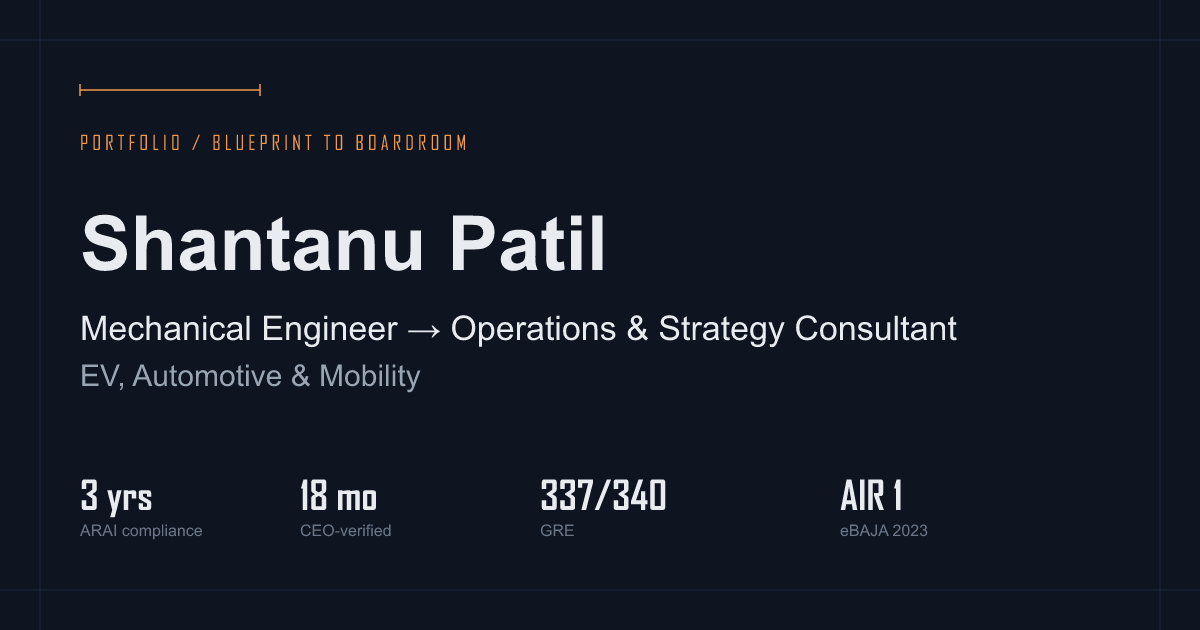
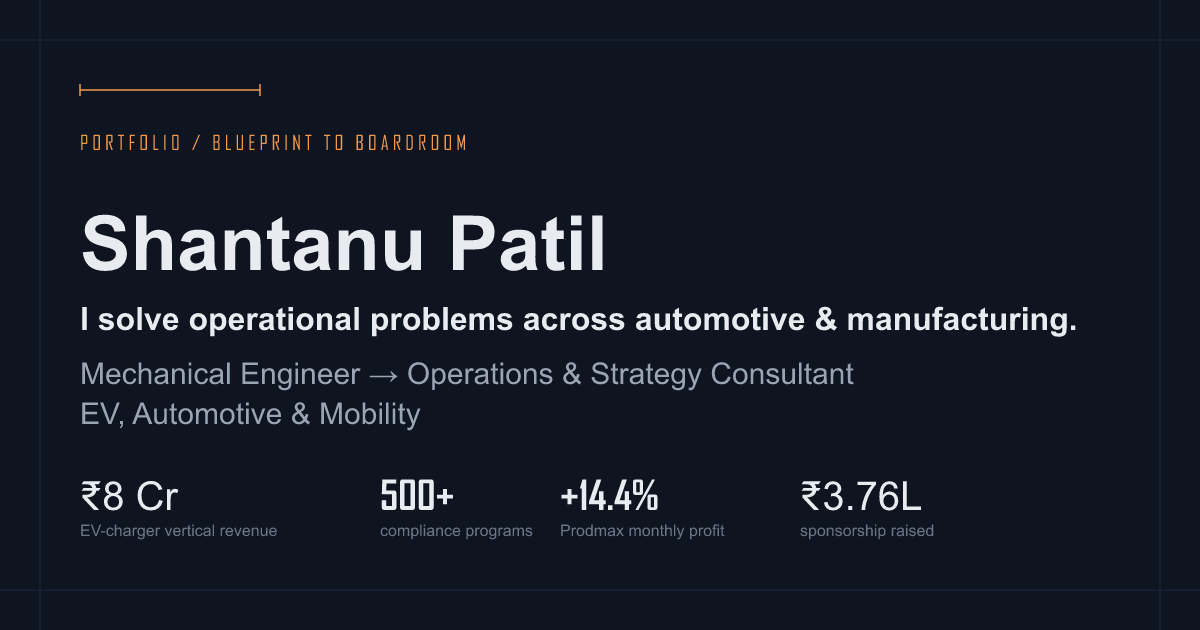
Sharpen hero, proof strip and skills; soften ARAI wording; add BAJA exhibit
- Hero leads with a plain statement ('I solve operational problems across automotive & manufacturing'), keywords underneath
- Proof strip is now business-impact only: Rs 8 Cr (labelled as the vertical's revenue, co-run as 1 of 2 engineers), 500+ programs, +14.4% profit, Rs 3.76L sponsorship
- ARAI: 'directed' -> 'ran the vertical as one of two engineers, coordinating seven contract staff' (no formal team-lead title)
- Skills collapsed from a three-column wall to two lines (Methods, Tools)
- BAJA back as one compact case-study exhibit (03); exhibits renumbered to seven
- OG image regenerated to match; README checklist refreshed

diff --git a/src/content.ts b/src/content.ts
@@ -17,7 +17,7 @@
 
    Open items from reconciling this file against the resume (2026-09-15) -
    flagged rather than guessed at:
-   - "18 months" (hero stat, quickStats, About "Operator" beat) vs the
+   - "18 months" (hero sub-line, About "Operator" beat) vs the
      Prodmax Experience dates (Oct 2023 - Aug 2025 per resume, ~22 months).
      Left both as-is pending confirmation of which is the intended figure.
    - Treasure Box Club: resume says "Founder & Sole Operator"; this file's
@@ -32,6 +32,8 @@
 export const site = {
   name: 'Shantanu Patil',
   role: 'Mechanical Engineer → Operations & Strategy Consultant',
+  // Leads the hero: one plain statement first, keywords underneath.
+  statement: 'I solve operational problems across automotive & manufacturing.',
   positioningLine:
     'Mechanical Engineer → Operations & Strategy Consultant | EV, Automotive & Mobility',
   // The one line that actually differentiates him. Surfaced in the hero and
@@ -73,6 +75,7 @@ export const nav: NavItem[] = [
 export const hero = {
   kicker: 'Portfolio · Blueprint to Boardroom',
   heading: 'Shantanu Patil',
+  statement: site.statement,
   positioning: site.positioningLine,
   thesisQuote: site.thesisQuote,
   sub: site.subPositioning,
@@ -82,11 +85,14 @@ export const hero = {
     { label: 'Email Me', href: `mailto:${site.email}`, kind: 'ghost' as const },
     { label: 'LinkedIn', href: site.linkedin, kind: 'ghost' as const, external: true },
   ],
+  // Proof strip: business-impact numbers only, all straight from the resume.
+  // The ₹8 Cr is the annual revenue of the EV-charger vertical he co-ran as one
+  // of two engineers - NOT revenue he personally generated; the label says so.
   quickStats: [
-    { value: '3 yrs', label: 'EV charger compliance at ARAI' },
-    { value: '18 mo', label: 'operations consulting, CEO-verified' },
-    { value: '337/340', label: 'GRE' },
-    { value: 'AIR 1', label: 'BAJA SAE India eBAJA 2023' },
+    { value: '₹8 Cr', label: 'annual revenue of the EV-charger vertical, co-run as 1 of 2 engineers' },
+    { value: '500+', label: 'compliance programs, zero client escalations' },
+    { value: '+14.4%', label: 'monthly profit at Prodmax (₹4.5L → ₹5.15L)' },
+    { value: '₹3.76L', label: 'sponsorship raised, 42% of team budget' },
   ],
 }
 
@@ -131,7 +137,7 @@ export const about = {
       tag: 'Proving ground',
       title: 'Team Leader, BAJA SAE - Team Predators Racing',
       body:
-        'Team Leader and Marketing & Manufacturing Lead for a 25-member cross-functional team across BAJA SAE India and BAJA SAE International (New York). Raised ₹3.76L (42% of budget) across 35+ sponsor pitches, then represented Team India at BAJA SAE USA, presenting the commercial case live before international judges. First team in the club’s history to win both the mBAJA and eBAJA national titles in consecutive years.',
+        'Team Leader and Marketing & Manufacturing Lead for a 25-member cross-functional team across BAJA SAE India and BAJA SAE International (New York). Raised ₹3.76L (42% of budget) across 35+ sponsor pitches, then represented Team India at BAJA SAE USA, presenting the commercial case live before international judges. First team to win both the mBAJA and eBAJA national titles in consecutive years.',
       stats: [
         { value: 'AIR 1', label: 'eBAJA 2023 · 1 of 81 teams' },
         { value: '4 / 88', label: 'World Rank, Intl Sales Presentation' },
@@ -195,7 +201,9 @@ export const experience: ExperienceEntry[] = [
       },
       {
         text:
-          'Directed a two-engineer core team overseeing seven contract staff within an EV-charger testing vertical generating ~₹8 crore in FY25 revenue - ~7% of the ~₹110 crore Automotive Electronics division.',
+          'Ran the EV-charger testing vertical as one of two engineers, coordinating seven contract staff; the vertical generated ~₹8 crore in FY25 revenue - ~7% of the ~₹110 crore Automotive Electronics division.',
+        flag:
+          'Deliberately "coordinating", not "directing" - no formal team-lead title. The resume PDF still says "directing a 7-member contract team" and "Delivered ₹8 Cr annual revenue"; align it so the two documents do not disagree.',
       },
       {
         text:
@@ -337,8 +345,26 @@ export const caseStudies: CaseStudy[] = [
     ],
   },
   {
-    id: 'voltedge',
+    id: 'baja',
     index: '03',
+    group: 'academic',
+    title: 'Team Predators Racing - BAJA SAE',
+    frameLabel: 'Leadership under competition constraints',
+    situation:
+      'BAJA SAE is a design-build-race competition for an off-road vehicle, judged on the engineering and on the business case (a costed report and a live sales presentation). The team needed a car that performs and a funded, commercially defensible case for building it.',
+    approach:
+      'As Team Leader and Marketing & Manufacturing Lead, ran a 25-member cross-functional team across design, manufacturing and marketing. Owned the funding: pitched 35+ executives, including CEOs at Datatech Labs, Hero MotoCorp and Spark Minda. Built the end-to-end investment case to mass-produce the ATV at a mandated 4,000 units/yr (market sizing, break-even, pricing) and defended it live before international investor-judges at BAJA SAE USA. Cut vehicle weight 5.35% by driving design tradeoffs across 3 sub-teams.',
+    result:
+      'Raised ₹3.76L (42% of budget). First team to win both national titles in consecutive years: mBAJA 2022 (1 of 138) and eBAJA 2023 (1 of 81, AIR 1). World Rank 4 of 88 in the BAJA SAE USA sales presentation. 17+ individual event awards.',
+    headlineStat: { value: 'AIR 1', label: 'eBAJA 2023 · 1 of 81 teams' },
+    metrics: [
+      { value: '4 / 88', label: 'World Rank, BAJA SAE USA sales presentation' },
+      { value: '₹3.76L', label: 'raised · 42% of team budget' },
+      { value: '25', label: 'members led across 3 functions' },
+    ],
+  },  {
+    id: 'voltedge',
+    index: '04',
     group: 'academic',
     title: 'VoltEdge Mobility - market-entry case design (MUCC)',
     frameLabel: 'Case design, Masters’ Union Consulting Club',
@@ -357,7 +383,7 @@ export const caseStudies: CaseStudy[] = [
   },
   {
     id: 'governance',
-    index: '04',
+    index: '05',
     group: 'academic',
     title: 'The Maharashtra Urban Adoption Compact',
     frameLabel: 'The Governance Challenge 2026',
@@ -375,7 +401,7 @@ export const caseStudies: CaseStudy[] = [
   },
   {
     id: 'factoryflow',
-    index: '05',
+    index: '06',
     group: 'academic',
     title: 'FactoryFlow AI - independent product build',
     frameLabel: 'Independent build',
@@ -401,7 +427,7 @@ export const caseStudies: CaseStudy[] = [
   },
   {
     id: 'treasurebox',
-    index: '06',
+    index: '07',
     group: 'academic',
     title: 'Treasure Box Club - D2C venture, performance marketing',
     frameLabel: 'Masters’ Union dropshipping challenge',
@@ -422,40 +448,16 @@ export const caseStudies: CaseStudy[] = [
 
 /* -------------------------------------------------- Skills */
 
+// Two lines, not a skills wall: experience is the evidence, this is just a
+// reference. Anything else (EV standards, homologation) lives in the Arc/Experience.
 export const skills: { heading: string; items: string[] }[] = [
   {
-    heading: 'Business / Strategy',
-    items: [
-      'Market-entry strategy',
-      'Case structuring',
-      'DMAIC problem-solving',
-      'Lean operations (5S, Kanban, SMED, CPM)',
-      'Linear programming / resource optimisation',
-      'Go-to-market strategy',
-      'Segmentation → Targeting → Positioning → Marketing Mix',
-    ],
-  },
-  {
-    heading: 'Technical / Domain',
-    items: [
-      'EV charger compliance (IEC 61851, IS 17017, AIS, CMVR)',
-      'Automotive homologation',
-      'Six Sigma DMAIC',
-      'SQL',
-      'Python',
-      'Power BI',
-      'Excel Solver / LP modelling (Power Query)',
-    ],
+    heading: 'Methods',
+    items: ['Lean', 'Six Sigma DMAIC', 'CPM', 'Bottleneck analysis', 'Linear programming', 'Operations analytics', 'Market sizing'],
   },
   {
     heading: 'Tools',
-    items: [
-      'Figma',
-      'PowerPoint / Figma design workflows',
-      'Lovable (no-code product build)',
-      'Shopify',
-      'Meta Ads Manager',
-    ],
+    items: ['Excel (Solver, Power Query)', 'SQL', 'Python', 'Power BI', 'Figma', 'Lovable', 'Shopify', 'Meta Ads Manager'],
   },
 ]
 

diff --git a/src/components/Hero.tsx b/src/components/Hero.tsx
@@ -54,7 +54,10 @@ export default function Hero() {
           {hero.heading}
         </h1>
 
-        <p className="mt-5 max-w-2xl text-lg font-medium text-ink sm:text-xl">
+        <p className="mt-5 max-w-2xl text-2xl font-semibold leading-snug tracking-tight text-ink sm:text-3xl">
+          {hero.statement}
+        </p>
+        <p className="mt-3 max-w-2xl text-base font-medium text-muted sm:text-lg">
           {(() => {
             // Break the positioning line at the "|" so the second half
             // ("EV, Automotive & Mobility") always sits on its own line.
@@ -67,7 +70,7 @@ export default function Hero() {
             )
           })()}
         </p>
-        <p className="mt-6 max-w-2xl border-l-2 border-accent pl-4 text-xl font-medium leading-snug text-ink sm:text-2xl">
+        <p className="mt-6 max-w-2xl border-l-2 border-accent pl-4 text-lg font-medium leading-snug text-ink sm:text-xl">
           {hero.thesisQuote}
         </p>
 
@@ -94,10 +97,10 @@ export default function Hero() {
           ))}
         </div>
 
-        <ul className="mt-14 grid max-w-2xl grid-cols-2 gap-x-6 gap-y-8 border-t border-line pt-8 sm:grid-cols-4">
+        <ul className="mt-14 grid max-w-3xl grid-cols-2 gap-x-6 gap-y-8 border-t border-line pt-8 sm:grid-cols-4">
           {hero.quickStats.map((s) => (
             <li key={s.label}>
-              <Stat value={s.value} label={s.label} size="sm" />
+              <Stat value={s.value} label={s.label} size="md" />
             </li>
           ))}
         </ul>

diff --git a/src/components/Skills.tsx b/src/components/Skills.tsx
@@ -4,24 +4,19 @@ import { Reveal, Section, SectionHeading } from './ui'
 export default function Skills() {
   return (
     <Section id="skills">
-      <SectionHeading index="04" title="Skills & Toolkit" />
-      <div className="grid gap-8 md:grid-cols-3">
-        {skills.map((col) => (
-          <Reveal key={col.heading} className="border-t-2 border-accent pt-4">
-            <h3 className="text-sm font-semibold uppercase tracking-widest text-ink">
-              {col.heading}
-            </h3>
-            <ul className="mt-4 space-y-2.5">
-              {col.items.map((item) => (
-                <li key={item} className="flex gap-2.5 text-sm leading-relaxed text-muted">
-                  <span aria-hidden className="stat text-accent">/</span>
-                  <span>{item}</span>
-                </li>
-              ))}
-            </ul>
-          </Reveal>
-        ))}
-      </div>
+      <SectionHeading index="04" title="Skills" />
+      <Reveal>
+        <dl className="max-w-3xl divide-y divide-line border-y border-line">
+          {skills.map((row) => (
+            <div key={row.heading} className="grid gap-1.5 py-4 sm:grid-cols-[120px_1fr] sm:gap-6">
+              <dt className="stat text-[11px] uppercase tracking-widest text-accent">
+                {row.heading}
+              </dt>
+              <dd className="text-sm leading-relaxed text-muted">{row.items.join(' · ')}</dd>
+            </div>
+          ))}
+        </dl>
+      </Reveal>
     </Section>
   )
 }

diff --git a/src/components/CaseStudies.tsx b/src/components/CaseStudies.tsx
@@ -117,7 +117,7 @@ export default function CaseStudies() {
       <SectionHeading
         index="03"
         title="Case Studies"
-        lede="Six exhibits, each read as a one-page consulting deliverable: Situation → Approach → Result, headline number first."
+        lede="Seven exhibits, each read as a one-page consulting deliverable: Situation → Approach → Result, headline number first."
       />
       <div className="space-y-10">
         {groups.map((group) => {

diff --git a/README.md b/README.md
@@ -57,7 +57,7 @@ In short:
   Situation/Approach/Result block does the work on its own; don't add one back.
 - Nav is deliberately kept to five items (About, Experience, Case Studies,
   Skills, Contact). Achievements live in Experience as a "Recognition" strip;
-  the BAJA/motorsport story lives inside the Arc's "Proving ground" beat;
+  the BAJA/motorsport story lives in the Arc's "Proving ground" beat and as one compact case-study exhibit;
   Leadership & Community is still on the page (between Skills and Contact)
   but isn't in the nav.
 - There is no Insights section. It was cut rather than shipped empty — add it
@@ -134,10 +134,7 @@ sharing:
 
 **Assets**
 
-- [ ] **Resume PDF** — replace `public/resume-shantanu-patil.pdf` (currently a
-      one-line placeholder). The filename must stay the same; it's linked from
-      the hero, nav and contact section (as a relative href, so it resolves
-      under both Vercel and the GitHub Pages `/shantanu-portfolio/` subpath).
+- [x] **Resume PDF** - real resume at `public/resume-shantanu-patil.pdf` (linked relatively, so it resolves under Vercel and the GitHub Pages subpath). Its ARAI wording still says `directing` and `Delivered ₹8 Cr` - the site now says `coordinating` and attributes the ₹8 Cr to the vertical; update the PDF to match.
 - [x] **LinkedIn URL** — set to `https://www.linkedin.com/in/shantanuspatil1/`.
 - [x] **OG image** — `public/og-image.png` is a real rendered 1200×630 PNG
       (see "Regenerating the OG preview image" above), referenced as an
@@ -145,21 +142,13 @@ sharing:
 - [ ] **Graduation date** — fill the `TODO(shantanu)` in the Masters' Union
       experience entry in `src/content.ts`; also used to firm up the hero's
       availability line (currently generic - see "Facts to confirm" below).
-- [ ] *(Optional)* a headshot — the design doesn't need one, but there's room in
-      the hero if you want it. None of the case studies have supporting images
-      either (BAJA car, FactoryFlow screenshot, Industry Compendium spread) -
-      add any you have via `Read`/an `<img>` in the relevant component; none
-      are faked here.
+- [x] **Images** - headshot, BAJA photo, FactoryFlow dashboard and aviation compendium are in `public/images/` (all under 300KB) and render through `PortfolioImage`. Check the FactoryFlow screenshot's demo client name (Shreeji Precision Works) is fictional.
 
 **Facts to confirm (use the safe phrasing already in the copy until confirmed)**
 
 - [ ] **ARAI *Best Contract Executive* 2025** — no recipient-count / "top X%"
       claim is made. Only add one if ARAI HR confirms it in writing.
-- [ ] **Prodmax Phase 1 baseline** — "7.12% quarterly revenue increase, 13.4%
-      waste reduction, lead time cut by 2 min 35 sec" have no stated base
-      (revenue off what starting figure, waste of what, cut from what cycle
-      time). Add the baselines if you can share them - flagged in a code
-      comment in `content.ts` too.
+- [ ] **Prodmax Phase 2 baselines** - 7.12% quarterly revenue, 13.4% waste and the 17% lead-time cut are relative, with no absolute base (revenue off what, waste of what, lead time from what). Add the baselines if you can share them; don't invent them. Flagged in a code comment in `content.ts` too.
 - [ ] **Prodmax Phase 2** — stated as method + result, "CEO-verified in
       writing". No `p<0.01`. Keep it that way unless a statistician signs off on
       a stronger phrasing.
